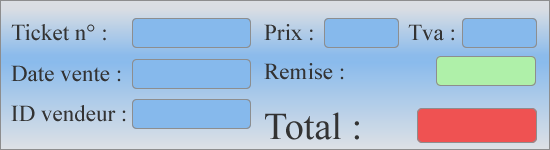
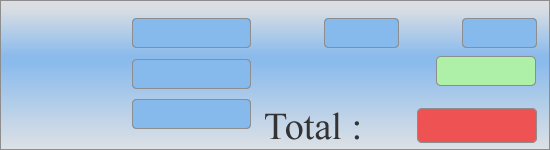
multilangue fonctionne added : info vente image repaced and translated

diff --git a/src/presentation/JFVente.java b/src/presentation/JFVente.java
@@ -258,6 +258,13 @@ public class JFVente extends javax.swing.JFrame {
         jLabelLogoutMV.setText(lang_var.getString("config_logout"));
         
         
+        
+        jLabelTicketNo.setText(lang_var.getString("info_ticket_no"));
+        jLabelDateVente.setText(lang_var.getString("info_date_vente"));
+        jLabelIDVendeur.setText(lang_var.getString("info_id_vendeur"));
+        jLabelPrix.setText(lang_var.getString("info_prix"));
+        jLabelTVA.setText(lang_var.getString("info_tva"));
+        jLabelRemise.setText(lang_var.getString("info_remise"));
       //  jLabel.setText(lang_var.getString("article"));
        
         
@@ -541,7 +548,15 @@ public class JFVente extends javax.swing.JFrame {
         jLabelTotal = new javax.swing.JLabel();
         codebarreArea = new javax.swing.JTextField();
         jLabelCodbarreBG = new javax.swing.JLabel();
+        jLabelTVA = new javax.swing.JLabel();
+        jLabelTicketNo = new javax.swing.JLabel();
+        jLabelRemise = new javax.swing.JLabel();
+        jLabelDateVente = new javax.swing.JLabel();
+        jLabelIDVendeur = new javax.swing.JLabel();
+        jLabelPrix = new javax.swing.JLabel();
         jLabelBackround = new javax.swing.JLabel();
+        jScrollPane15 = new javax.swing.JScrollPane();
+        jTableVente1 = new JTable(myModelVente);
         jPanelGridRapiCat = new javax.swing.JPanel();
         jPanelProdRapid = new javax.swing.JPanel();
         jLabelMsgListeRapide = new javax.swing.JLabel();
@@ -1444,9 +1459,51 @@ public class JFVente extends javax.swing.JFrame {
         jPanelScanPanel.add(jLabelCodbarreBG);
         jLabelCodbarreBG.setBounds(0, 0, 550, 48);
 
+        jLabelTVA.setFont(new java.awt.Font("Tahoma", 0, 18)); // NOI18N
+        jLabelTVA.setText("TVA :");
+        jPanelScanPanel.add(jLabelTVA);
+        jLabelTVA.setBounds(410, 420, 60, 30);
+
+        jLabelTicketNo.setFont(new java.awt.Font("Tahoma", 0, 18)); // NOI18N
+        jLabelTicketNo.setText("Ticket N° :");
+        jPanelScanPanel.add(jLabelTicketNo);
+        jLabelTicketNo.setBounds(10, 420, 120, 30);
+
+        jLabelRemise.setFont(new java.awt.Font("Tahoma", 0, 18)); // NOI18N
+        jLabelRemise.setText("Remise :");
+        jPanelScanPanel.add(jLabelRemise);
+        jLabelRemise.setBounds(270, 460, 120, 30);
+
+        jLabelDateVente.setFont(new java.awt.Font("Tahoma", 0, 18)); // NOI18N
+        jLabelDateVente.setText("Date Vente :");
+        jPanelScanPanel.add(jLabelDateVente);
+        jLabelDateVente.setBounds(10, 460, 120, 30);
+
+        jLabelIDVendeur.setFont(new java.awt.Font("Tahoma", 0, 18)); // NOI18N
+        jLabelIDVendeur.setText("ID Vendeur :");
+        jPanelScanPanel.add(jLabelIDVendeur);
+        jLabelIDVendeur.setBounds(10, 500, 120, 30);
+
+        jLabelPrix.setFont(new java.awt.Font("Tahoma", 0, 18)); // NOI18N
+        jLabelPrix.setText("Prix :");
+        jPanelScanPanel.add(jLabelPrix);
+        jLabelPrix.setBounds(270, 420, 60, 30);
+
         jLabelBackround.setIcon(new javax.swing.ImageIcon(getClass().getResource("/images/ticketInfoBt2.png"))); // NOI18N
         jPanelScanPanel.add(jLabelBackround);
         jLabelBackround.setBounds(0, 403, 550, 150);
+
+        jScrollPane15.setPreferredSize(new java.awt.Dimension(600, 402));
+
+        jTableVente1.setBackground(new java.awt.Color(134, 185, 236));
+        jTableVente1.setFont(new java.awt.Font("SansSerif", 1, 14)); // NOI18N
+        jTableVente1.setCursor(new java.awt.Cursor(java.awt.Cursor.DEFAULT_CURSOR));
+        jTableVente1.setFocusable(false);
+        jTableVente1.setRowHeight(35);
+        jScrollPane15.setViewportView(jTableVente1);
+
+        jPanelScanPanel.add(jScrollPane15);
+        jScrollPane15.setBounds(0, 54, 550, 343);
 
         jPanelGridRapiCat.setLayout(new java.awt.GridLayout(5, 2));
 
@@ -2227,7 +2284,7 @@ public class JFVente extends javax.swing.JFrame {
                         .addComponent(jButton10, javax.swing.GroupLayout.PREFERRED_SIZE, 155, javax.swing.GroupLayout.PREFERRED_SIZE)
                         .addPreferredGap(javax.swing.LayoutStyle.ComponentPlacement.UNRELATED)
                         .addComponent(jButton18, javax.swing.GroupLayout.PREFERRED_SIZE, 155, javax.swing.GroupLayout.PREFERRED_SIZE)))
-                .addPreferredGap(javax.swing.LayoutStyle.ComponentPlacement.RELATED, 19, Short.MAX_VALUE)
+                .addPreferredGap(javax.swing.LayoutStyle.ComponentPlacement.RELATED, 18, Short.MAX_VALUE)
                 .addGroup(jPanel1Layout.createParallelGroup(javax.swing.GroupLayout.Alignment.LEADING, false)
                     .addGroup(jPanel1Layout.createSequentialGroup()
                         .addComponent(jLabel10)
@@ -2311,7 +2368,7 @@ public class JFVente extends javax.swing.JFrame {
                         .addGroup(jPanel1Layout.createParallelGroup(javax.swing.GroupLayout.Alignment.BASELINE)
                             .addComponent(jLabel13)
                             .addComponent(jLabel20))
-                        .addPreferredGap(javax.swing.LayoutStyle.ComponentPlacement.RELATED, 15, Short.MAX_VALUE)
+                        .addPreferredGap(javax.swing.LayoutStyle.ComponentPlacement.RELATED, 12, Short.MAX_VALUE)
                         .addComponent(jSeparator15, javax.swing.GroupLayout.PREFERRED_SIZE, 10, javax.swing.GroupLayout.PREFERRED_SIZE))
                     .addGroup(jPanel1Layout.createSequentialGroup()
                         .addGroup(jPanel1Layout.createParallelGroup(javax.swing.GroupLayout.Alignment.BASELINE)
@@ -2319,7 +2376,7 @@ public class JFVente extends javax.swing.JFrame {
                             .addComponent(jButton18))
                         .addPreferredGap(javax.swing.LayoutStyle.ComponentPlacement.UNRELATED)
                         .addComponent(jSeparator16, javax.swing.GroupLayout.PREFERRED_SIZE, 10, javax.swing.GroupLayout.PREFERRED_SIZE)))
-                .addGap(0, 9, Short.MAX_VALUE))
+                .addGap(0, 5, Short.MAX_VALUE))
         );
 
         javax.swing.GroupLayout jPanelRechercheTicketLayout = new javax.swing.GroupLayout(jPanelRechercheTicket);
@@ -4732,11 +4789,13 @@ public class JFVente extends javax.swing.JFrame {
     private javax.swing.JLabel jLabelConfigMsg;
     private javax.swing.JLabel jLabelDateJour;
     private javax.swing.JLabel jLabelDateTrans;
+    private javax.swing.JLabel jLabelDateVente;
     private javax.swing.JLabel jLabelDernierTicket;
     private javax.swing.JLabel jLabelEtatCaissTC;
     private javax.swing.JLabel jLabelEtatCaisse;
     private javax.swing.JLabel jLabelEtatCaisseTR;
     private javax.swing.JLabel jLabelHT;
+    private javax.swing.JLabel jLabelIDVendeur;
     private javax.swing.JLabel jLabelIdVendeur;
     private javax.swing.JLabel jLabelImageSt;
     private javax.swing.JLabel jLabelLangue;
@@ -4758,8 +4817,10 @@ public class JFVente extends javax.swing.JFrame {
     private javax.swing.JLabel jLabelOuvrir;
     private javax.swing.JLabel jLabelPeripherique;
     private javax.swing.JLabel jLabelPrestation;
+    private javax.swing.JLabel jLabelPrix;
     private javax.swing.JLabel jLabelPrixTva;
     private javax.swing.JLabel jLabelRecu;
+    private javax.swing.JLabel jLabelRemise;
     private javax.swing.JLabel jLabelRemiseGen;
     private javax.swing.JLabel jLabelRemiseGeneral;
     private javax.swing.JLabel jLabelRestTitle;
@@ -4769,6 +4830,8 @@ public class JFVente extends javax.swing.JFrame {
     private javax.swing.JLabel jLabelSTotal;
     private javax.swing.JLabel jLabelSortirArgent;
     private javax.swing.JLabel jLabelSuppArticle;
+    private javax.swing.JLabel jLabelTVA;
+    private javax.swing.JLabel jLabelTicketNo;
     private javax.swing.JLabel jLabelTicketRayon;
     private javax.swing.JLabel jLabelTopMenuBG;
     private javax.swing.JLabel jLabelTotal;
@@ -4828,6 +4891,7 @@ public class JFVente extends javax.swing.JFrame {
     private javax.swing.JScrollPane jScrollPane12;
     private javax.swing.JScrollPane jScrollPane13;
     private javax.swing.JScrollPane jScrollPane14;
+    private javax.swing.JScrollPane jScrollPane15;
     private javax.swing.JScrollPane jScrollPane2;
     private javax.swing.JScrollPane jScrollPane3;
     private javax.swing.JScrollPane jScrollPane4;
@@ -4882,6 +4946,7 @@ public class JFVente extends javax.swing.JFrame {
     private javax.swing.JTable jTableSousTotal;
     private javax.swing.JTable jTableTotTVA;
     private javax.swing.JTable jTableVente;
+    private javax.swing.JTable jTableVente1;
     private javax.swing.JTextField jTextFieldLangue;
     private javax.swing.JTextField jTextFieldMontantRecu;
     private javax.swing.JTextField jTextFieldSearch;
